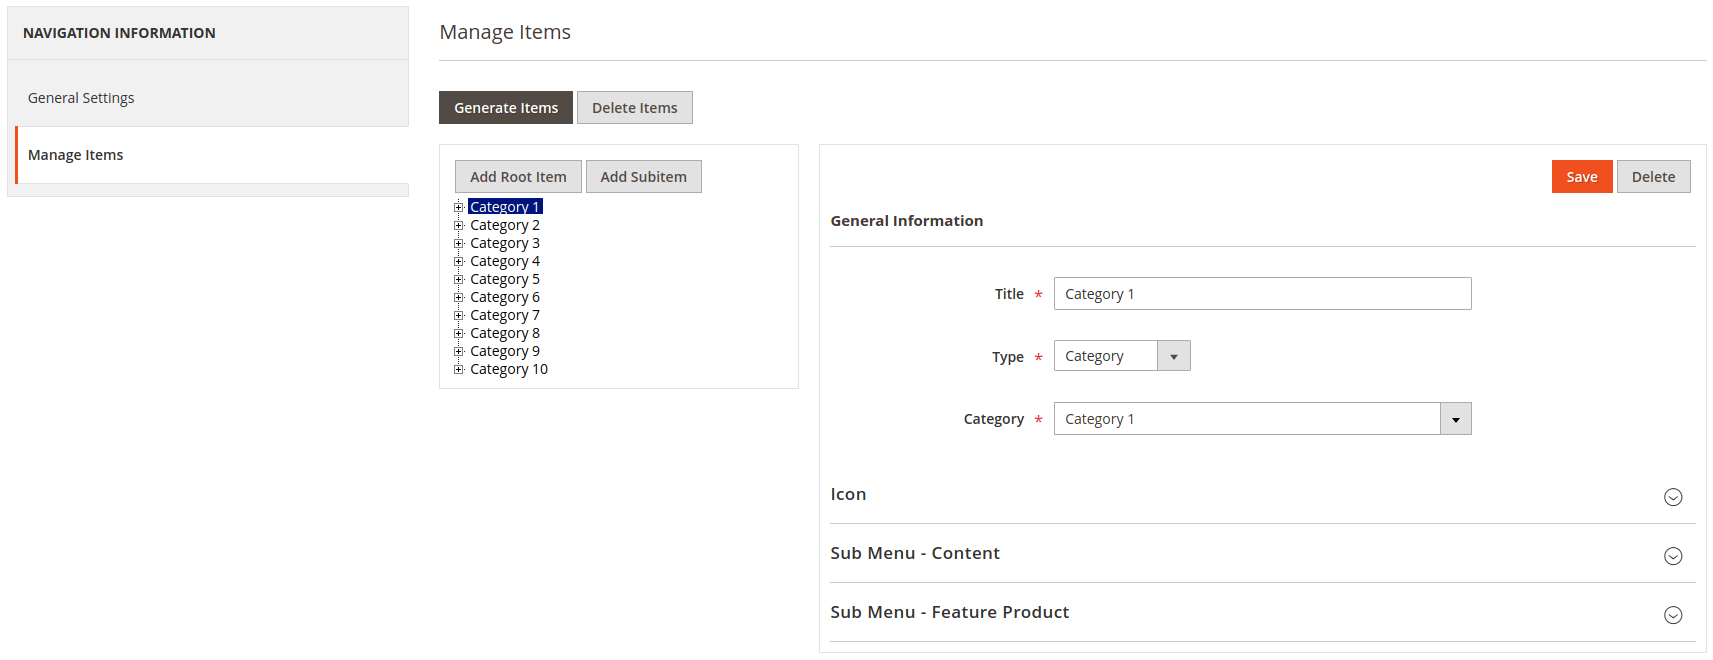
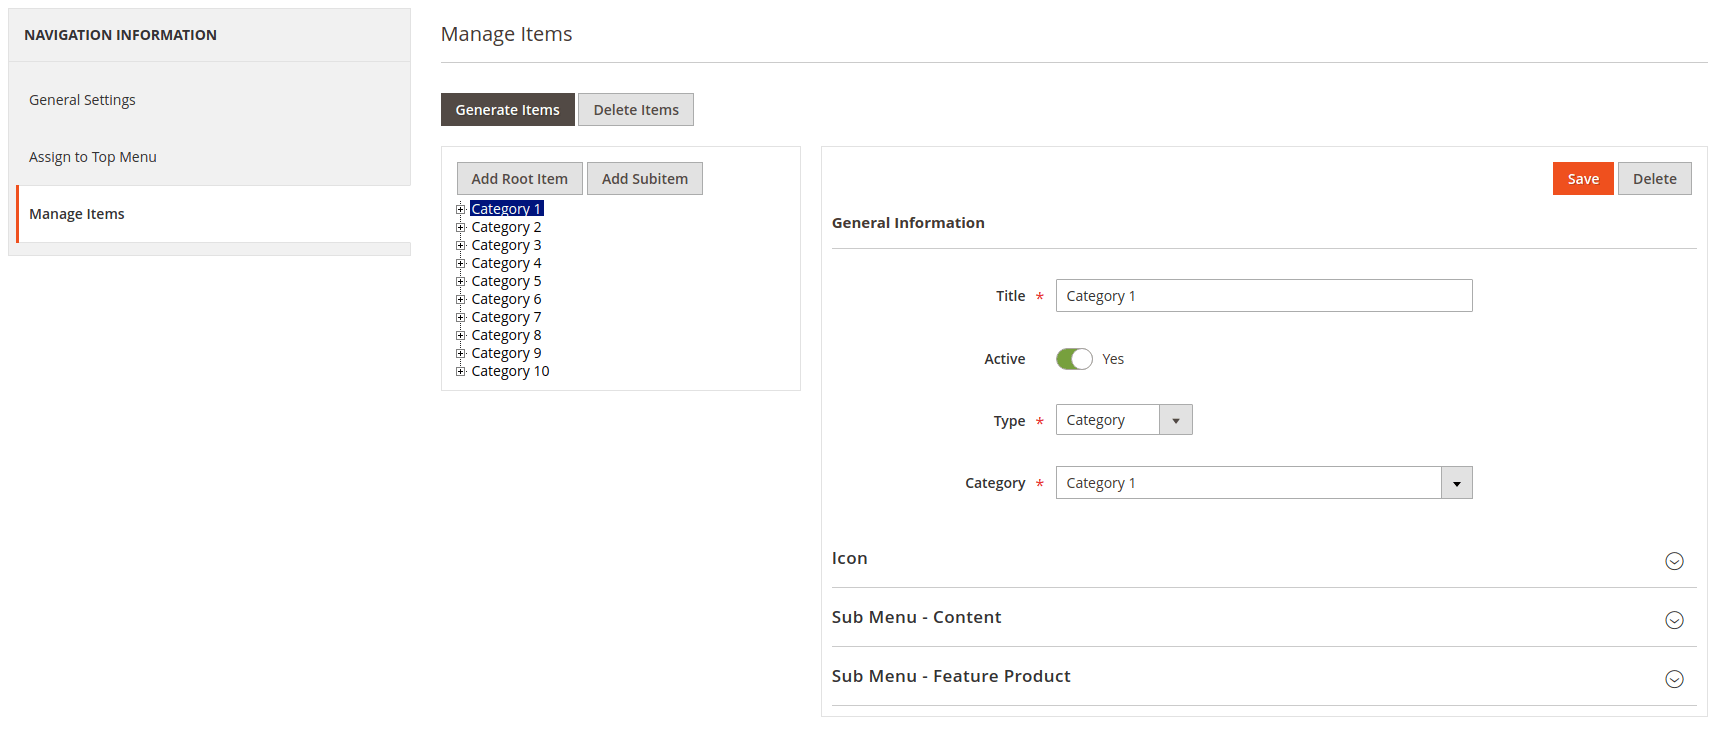
updated navigation module.

diff --git a/_extensions/m2/navigation.md b/_extensions/m2/navigation.md
@@ -82,11 +82,12 @@ title: Navigation / Magento 2 / Extensions / MageKey GitHub
                 <ul class="toc">
                     <li><a href="#toc-overview" class="toc-left">Overview</a><a href="#toc-overview" class="toc-right">3</a></li>
                     <li><a href="#navigation" class="toc-left">Manage Navigation</a><a href="#navigation" class="toc-right">4</a></li>
-                    <li><a href="#items" class="toc-left">Manage Items</a><a href="#items" class="toc-right">5</a></li>
-                    <li><a href="#generate" class="toc-left">Generate Items</a><a href="#generate" class="toc-right">6</a></li>
-                    <li><a href="#update_item" class="toc-left">Update Item</a><a href="#update_item" class="toc-right">7</a></li>
-                    <li><a href="#topmenu" class="toc-left">Setup top menu navigation</a><a href="#topmenu" class="toc-right">10</a></li>
-                    <li><a href="#widget" class="toc-left">Create navigation widget</a><a href="#widget" class="toc-right">11</a></li>
+                    <li><a href="#topmenu" class="toc-left">Assign to Top Menu</a><a href="#topmenu" class="toc-right">5</a></li>
+                    <li><a href="#items" class="toc-left">Manage Items</a><a href="#items" class="toc-right">6</a></li>
+                    <li><a href="#generate" class="toc-left">Generate Items</a><a href="#generate" class="toc-right">7</a></li>
+                    <li><a href="#update_item" class="toc-left">Update Item</a><a href="#update_item" class="toc-right">8</a></li>
+                    <li><a href="#topmenu" class="toc-left">Setup top menu navigation</a><a href="#topmenu" class="toc-right">11</a></li>
+                    <li><a href="#widget" class="toc-left">Create navigation widget</a><a href="#widget" class="toc-right">12</a></li>
                 </ul>
             </div>
 
@@ -143,6 +144,22 @@ title: Navigation / Magento 2 / Extensions / MageKey GitHub
 
             <br/>
             <p>Click <strong>Create</strong> button to create a new navigation and move to manage items section.</p>
+
+            <br/>
+            <div class="pagebreak"></div>
+
+            <a name="topmenu"></a>
+            <h2>Assign to Top Menu</h2>
+
+            <br/>
+
+            <p>This section allows us to assign a current navigation to the top menu.</p>
+            <br/>
+            <br/>
+
+            <p class="text-center">
+                <img style="max-height: 500px" src="{{ site.data.config.mediaBaseUrl }}m2/navigation/slide15.png" />
+            </p>
 
             <div class="pagebreak"></div>
 
